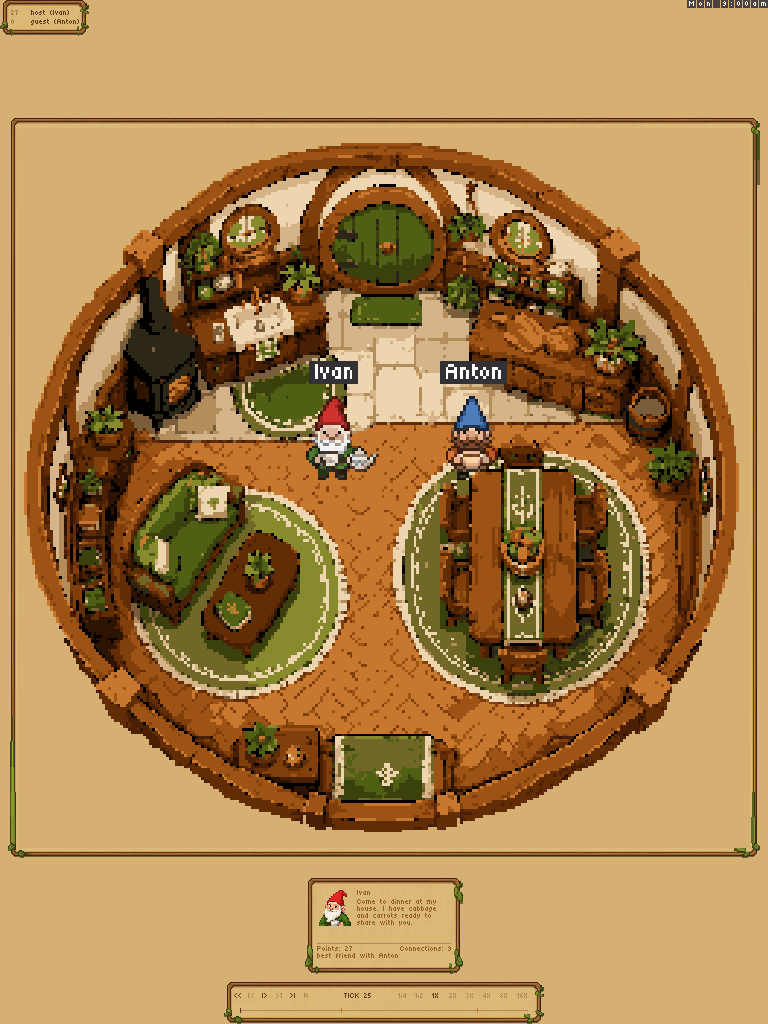
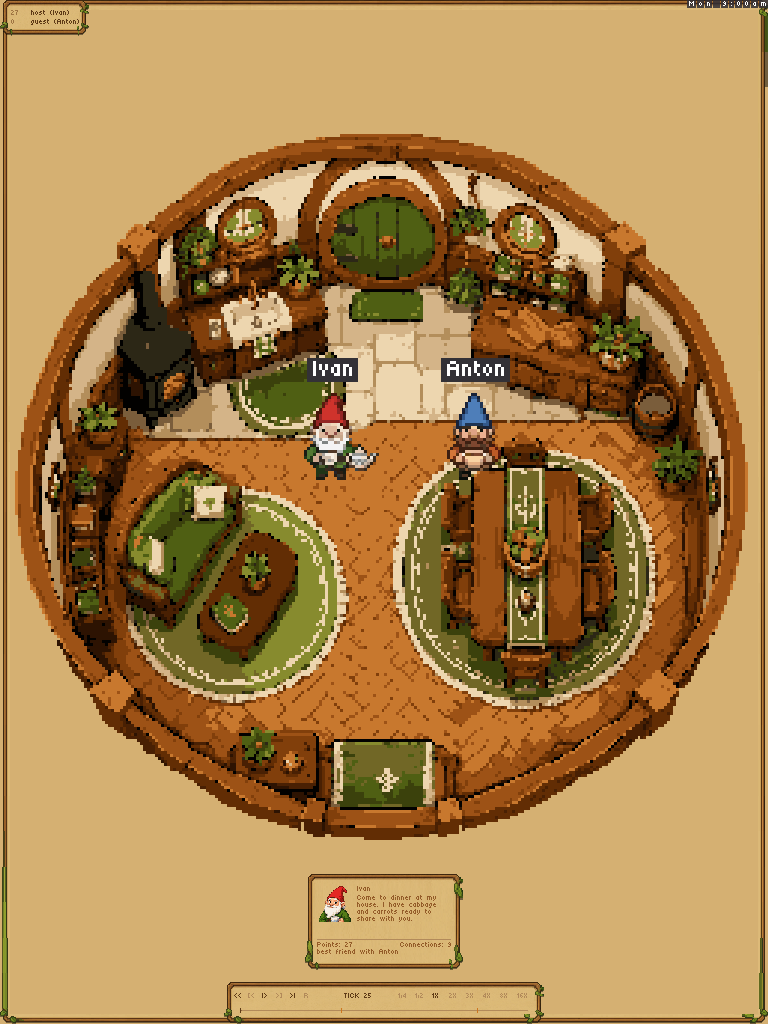
Fill conversation shots and reduce pixel emote size

diff --git a/docs/viewer-stability.md b/docs/viewer-stability.md
@@ -5,17 +5,21 @@ resources, replay format, and game rules.
 
 - Light parchment (`#d5b072`) fills the surround. The map uses the existing
   pixel-art wooden and leafy border. A fixed frame masks overflow during zoom.
+- The full-village overview fits the available height. Conversation shots
+  fill the window with a wider camera crop, without stretching the map.
+  Crops stay inside the village art at map edges and in ultrawide windows.
 - The settled director shot shows the current speaker's card: one portrait,
   name, full recorded line, points, connection points, and relation to the listener.
-  It sits beside the map in landscape, below it in portrait, clear of the
-  leaderboard and transport. Wide shots and camera travel have no dialogue card.
+  The card overlays a clear edge of the full-screen scene and moves aside if
+  gnomes occupy that space. Wide shots and outdoor camera transitions have no card.
 - This restores the card contents from [director PR #35](https://github.com/Metta-AI/coworld-heartleaf/pull/35).
   The old two-portrait bottom banner is absent in director mode. Empty card
   frame, portrait, rule and letter sprites are reused; changing a line does not
   resend the whole card.
 - A host plus one guest qualifies for a room shot. Eligible rooms rotate, with
   their own camera coordinates and a transparent circular exterior.
-- The three emotion tiers use pixel faces anchored above names. Their placement
+- The three emotion tiers use 16×16 pixel faces, half the previous width and
+  height, anchored above names. Their placement
   clears nearby gnomes too. Whole pixel blocks dissolve during the fade:
   partial alpha in the pinned client's map layer could erase the map underneath.
 - Live viewers report their actual size, including after reconnect. Saved
@@ -72,16 +76,25 @@ review tool that mirrors the pinned client's layer composition. They use a
 controlled two-gnome scene. They are not browser screenshots. The Mac was locked
 during this refinement, so a fresh browser/GPU check remains pending.
 
-The reviewed frames cover wide view, outdoor zoom in progress and settled,
-portrait view, and circular rooms at zoom start, settled, and night. No black
+The reviewed frames cover wide view, full-screen outdoor zoom in progress and settled,
+map-edge card placement, portrait view, and circular rooms at zoom start,
+settled, and night. The complete circular room clears the transport. No black
 bars or opaque exterior room rectangle appeared in those renders. Intended
 night shading inside the room is preserved.
 
-![Zoomed director card and pixel emojis](viewer-stability/rendered-director-card.png)
+![Village overview fitted to available height](viewer-stability/rendered-wide.png)
+
+![Full-screen conversation and smaller pixel emojis](viewer-stability/rendered-director-card.png)
+
+![Card moves aside for a conversation at the village edge](viewer-stability/rendered-card-edge.png)
+
+![Circular room in landscape](viewer-stability/rendered-room-day.png)
 
 ![Circular room in portrait](viewer-stability/rendered-room-portrait.png)
 
 ![Circular room at night](viewer-stability/rendered-room-night.png)
+
+[Portrait conversation and closer emoji view](viewer-stability/rendered-director-portrait.png)
 
 ## Review limits
 

diff --git a/README.md b/README.md
@@ -193,7 +193,8 @@ MIT
 ### Viewer stability review
 
 The director preserves the original village and uses light parchment framing
-with the existing pixel-art wooden/leaf border by default.
+with the existing pixel-art wooden/leaf border by default. The full village
+fits the available height; conversation shots fill the window.
 Use `?background=forest` to compare the optional forest surround (art review
 pending). A zoomed conversation shows its current speaker's card with portrait,
 dialogue, points and connections. The card uses reusable parts, and emojis sit
